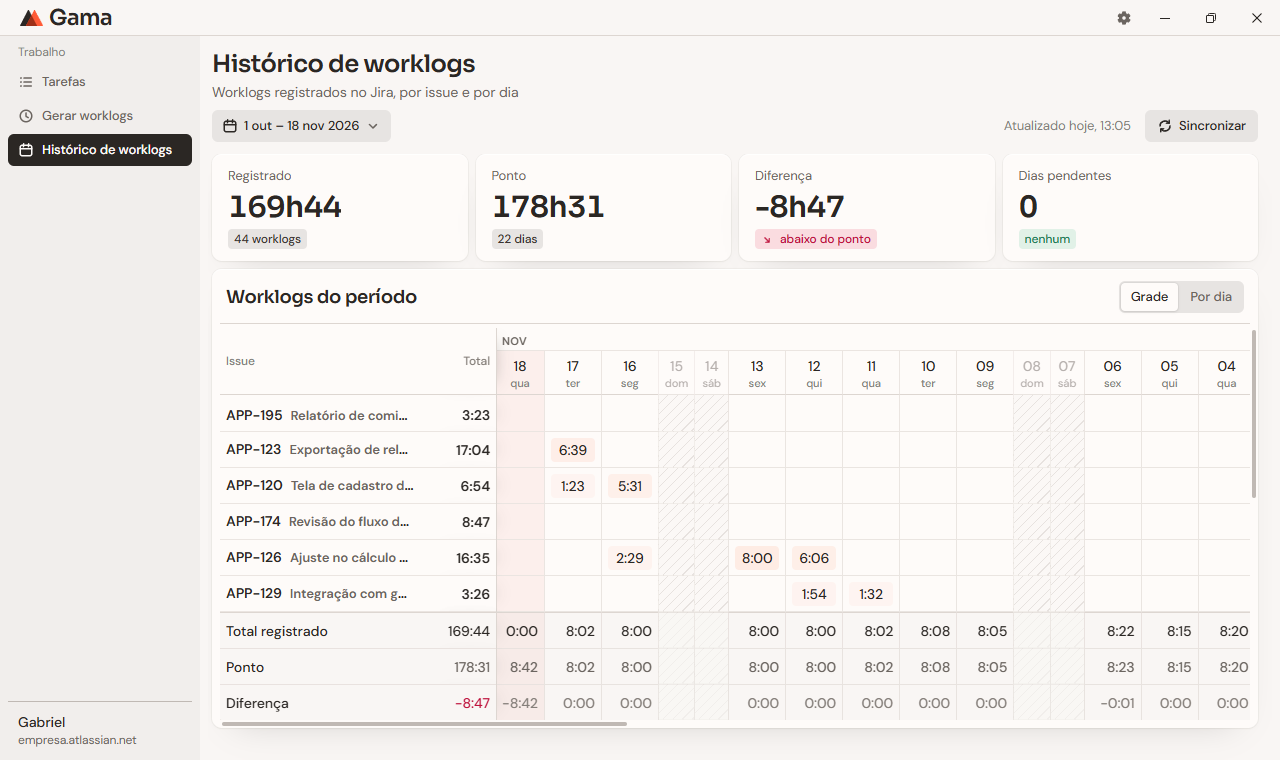
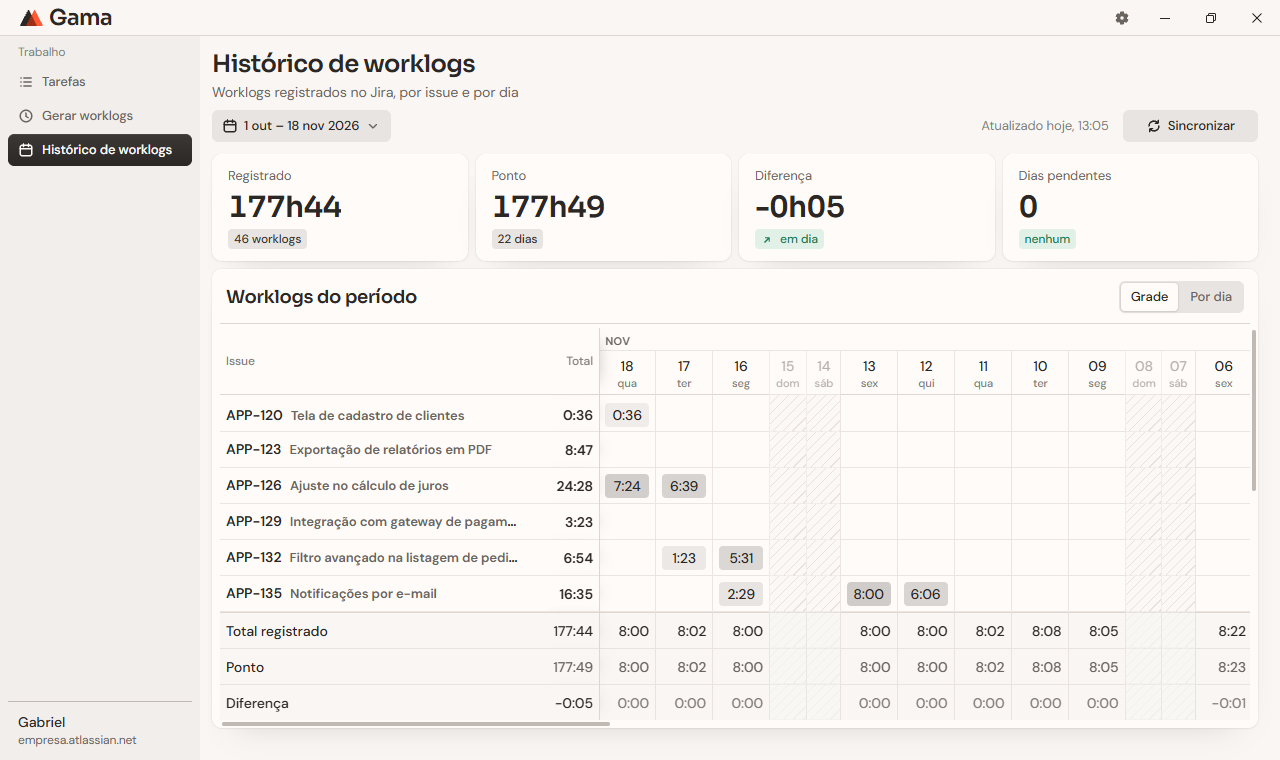
docs: add a worklog registration GIF and refresh README screenshots

diff --git a/README.md b/README.md
@@ -35,42 +35,44 @@ O Gama cruza três fontes para descobrir em que você trabalhou em cada dia: os 
 
 ## Interface
 
+Os dados exibidos nas imagens são fictícios.
+
 <table>
 <tr><th>Tarefas</th><th>Gerar worklogs</th></tr>
 <tr><td>
 
-<picture>
-  <source media="(prefers-color-scheme: light)" srcset="docs/screenshots/tarefas-claro.png">
-  <img src="docs/screenshots/tarefas-escuro.png" width="420" alt="Tela de Tarefas com as issues atribuídas ao usuário no período, abas por categoria de status, busca e a coluna de status de cada issue">
-</picture>
+<img src="docs/screenshots/tarefas-claro.png" width="420" alt="Tela de Tarefas com as issues atribuídas ao usuário no período, abas por categoria de status, busca e a coluna de status de cada issue">
 
 </td><td>
 
-<picture>
-  <source media="(prefers-color-scheme: light)" srcset="docs/screenshots/gerar-worklogs-claro.png">
-  <img src="docs/screenshots/gerar-worklogs-escuro.png" width="420" alt="Tela Gerar worklogs com a linha do tempo de cada dia: marcações de ponto, tempo contabilizado por issue e o tempo já registrado no Jira">
-</picture>
+<img src="docs/screenshots/gerar-worklogs-claro.png" width="420" alt="Tela Gerar worklogs com a linha do tempo de cada dia: marcações de ponto, tempo contabilizado por issue e o tempo já registrado no Jira">
 
 </td></tr>
 <tr><th>Registro do dia</th><th>Histórico de worklogs</th></tr>
 <tr><td>
 
-<picture>
-  <source media="(prefers-color-scheme: light)" srcset="docs/screenshots/registrar-dia-claro.png">
-  <img src="docs/screenshots/registrar-dia-escuro.png" width="420" alt="Prévia do registro de um dia com os worklogs sugeridos, início, duração, comentário e o botão para enviar ao Jira">
-</picture>
+<img src="docs/screenshots/registrar-dia-claro.png" width="420" alt="Prévia do registro de um dia com os worklogs sugeridos, início, duração, comentário e o botão para enviar ao Jira">
 
 </td><td>
 
-<picture>
-  <source media="(prefers-color-scheme: light)" srcset="docs/screenshots/historico-claro.png">
-  <img src="docs/screenshots/historico-escuro.png" width="420" alt="Tela Histórico de worklogs com os indicadores de tempo registrado, ponto e diferença, e a grade de issues por dia">
-</picture>
+<img src="docs/screenshots/historico-claro.png" width="420" alt="Tela Histórico de worklogs com os indicadores de tempo registrado, ponto e diferença, e a grade de issues por dia">
+
+</td></tr>
+<tr><th colspan="2">Tema escuro</th></tr>
+<tr><td>
+
+<img src="docs/screenshots/gerar-worklogs-escuro.png" width="420" alt="Tela Gerar worklogs no tema escuro, com a linha do tempo de cada dia e o tempo contabilizado por issue">
+
+</td><td>
+
+<img src="docs/screenshots/historico-escuro.png" width="420" alt="Tela Histórico de worklogs no tema escuro, com os indicadores de tempo registrado, ponto e diferença">
 
 </td></tr>
 </table>
 
-Os dados exibidos nas imagens são fictícios.
+### Registro de worklog
+
+<img src="docs/screenshots/registrar-worklogs-claro.gif" width="100%" alt="Animação do registro de um dia em Gerar worklogs: a linha do tempo de sexta-feira mostra o tempo calculado por issue, a prévia abre com os worklogs sugeridos, um comentário é preenchido, o envio é confirmado e o dia passa a mostrar 8h26 registradas no Jira">
 
 ## Funcionalidades
 
@@ -88,15 +90,15 @@ Os dados exibidos nas imagens são fictícios.
 
 ## Configurações
 
-| Opção | Descrição |
-|---|---|
-| Tema | Claro, escuro ou o tema do sistema. |
+| Opção                                 | Descrição                                                                                                                           |
+| ------------------------------------- | ----------------------------------------------------------------------------------------------------------------------------------- |
+| Tema                                  | Claro, escuro ou o tema do sistema.                                                                                                 |
 | Intervalo mínimo entre sincronizações | Tempo mínimo entre duas buscas no Jira ao abrir as telas: sempre, 1, 5, 15 ou 30 minutos, 1 hora, ou só pelo botão **Sincronizar**. |
-| Jira | URL do site, e-mail e token da API. Mostra a conta conectada e permite desconectar. |
-| PontoMais | E-mail e senha, com a opção de reconectar automaticamente quando a sessão expirar. |
-| Status de desenvolvimento | Status do Jira, agrupados por categoria, em que o tempo da issue é contado. |
-| Atualizações | Mostra a versão instalada e permite verificar manualmente se há uma versão nova. |
-| Apagar dados locais | Remove tarefas, histórico de status, worklogs e marcações de ponto guardados neste computador. As contas continuam conectadas. |
+| Jira                                  | URL do site, e-mail e token da API. Mostra a conta conectada e permite desconectar.                                                 |
+| PontoMais                             | E-mail e senha, com a opção de reconectar automaticamente quando a sessão expirar.                                                  |
+| Status de desenvolvimento             | Status do Jira, agrupados por categoria, em que o tempo da issue é contado.                                                         |
+| Atualizações                          | Mostra a versão instalada e permite verificar manualmente se há uma versão nova.                                                    |
+| Apagar dados locais                   | Remove tarefas, histórico de status, worklogs e marcações de ponto guardados neste computador. As contas continuam conectadas.      |
 
 ## Limitações conhecidas
 
@@ -115,10 +117,10 @@ Os dados exibidos nas imagens são fictícios.
 
 As marcações ativas do dia são agrupadas em pares de entrada e saída e convertidas para UTC no fuso do perfil do Jira. Em seguida, o changelog de cada issue candidata (atribuída a você hoje ou em algum momento) é reconstruído em dois conjuntos de intervalos: em que ela esteve em um status de desenvolvimento e em que ela esteve atribuída a você.
 
-| Etapa | Resultado |
-|---|---|
+| Etapa                                        | Resultado                                               |
+| -------------------------------------------- | ------------------------------------------------------- |
 | Status de desenvolvimento ∩ atribuída a você | Intervalos em que a issue era sua e estava em andamento |
-| Resultado ∩ ponto aberto | Tempo contado da issue no dia |
+| Resultado ∩ ponto aberto                     | Tempo contado da issue no dia                           |
 
 O início sugerido do worklog é o começo do primeiro trecho contado. Com número ímpar de marcações, o último intervalo vai até o momento atual quando o dia é hoje e é descartado nos dias passados. Sábados e domingos só aparecem quando têm marcação, issue trabalhada ou worklog.
 
@@ -145,12 +147,12 @@ As datas são tratadas no fuso do perfil do Jira, e os períodos são convertido
 <details>
 <summary><strong>Onde ficam os dados</strong></summary>
 
-| Dado | Windows | Linux |
-|---|---|---|
-| Banco local (`gama.db`) | `%APPDATA%\com.gabrielgriffo.gama\` | `~/.local/share/com.gabrielgriffo.gama/` |
-| Preferências (`preferences.json`) | `%APPDATA%\com.gabrielgriffo.gama\` | `~/.config/com.gabrielgriffo.gama/` |
-| Logs | `%LOCALAPPDATA%\com.gabrielgriffo.gama\logs\` | `~/.local/share/com.gabrielgriffo.gama/logs/` |
-| Token do Jira e senha do PontoMais | Gerenciador de Credenciais do Windows | Keyring do sistema (Secret Service) |
+| Dado                               | Windows                                       | Linux                                         |
+| ---------------------------------- | --------------------------------------------- | --------------------------------------------- |
+| Banco local (`gama.db`)            | `%APPDATA%\com.gabrielgriffo.gama\`           | `~/.local/share/com.gabrielgriffo.gama/`      |
+| Preferências (`preferences.json`)  | `%APPDATA%\com.gabrielgriffo.gama\`           | `~/.config/com.gabrielgriffo.gama/`           |
+| Logs                               | `%LOCALAPPDATA%\com.gabrielgriffo.gama\logs\` | `~/.local/share/com.gabrielgriffo.gama/logs/` |
+| Token do Jira e senha do PontoMais | Gerenciador de Credenciais do Windows         | Keyring do sistema (Secret Service)           |
 
 Os logs registram o método e a URL de cada requisição ao Jira e ao PontoMais, o que inclui o endereço do seu site Jira e as chaves das issues. Revise o conteúdo antes de publicá-lo.
 
